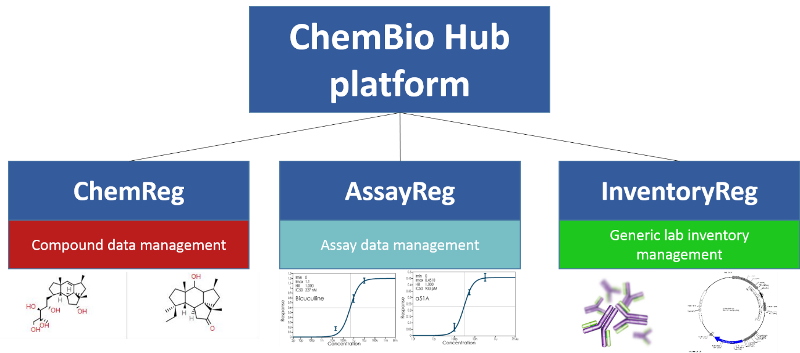
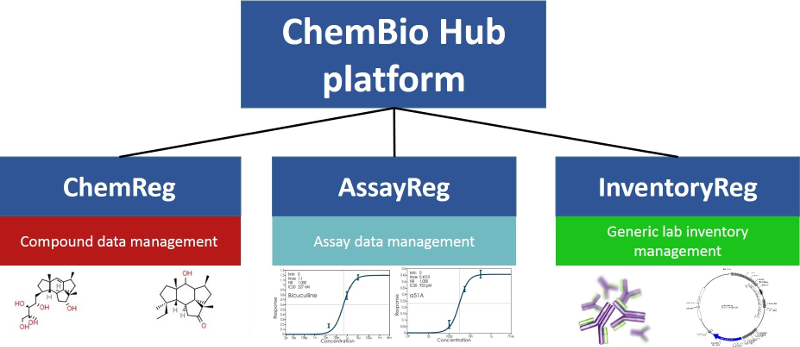
Adam blog revisions

diff --git a/_site/blog/2015/10/15/good-data-management.html b/_site/blog/2015/10/15/good-data-management.html
@@ -145,7 +145,7 @@
 
 <p>A good data management system has several advantages (<em>Figure 1</em>). Most labs don’t realize they are lacking an effective process until it’s too late. Here’s a simple question: If your senior postdoc left today, how much would you lose? You may have their results and protocols, but could you piece it all together? What about the experiments that didn’t work?  And where are the reagents, compounds, plasmids and antibodies they used? <a href="businessdictionary.com" target="_blank">businessdictionary.com</a> defines good data management as the ‘administrative process by which the required data is acquired, validated, stored, protected, and processed, and by which its accessibility, reliability, and timeliness is ensured to satisfy the needs of the data users.’ Academic data management practices rarely fit within this definition. More commonly, academic data management is a combination of hand-written lab books combined with files stored on a server. What’s more the format of data entry varies from  individual to individual. It’s a system that is likely to fail.</p>
 
-<figure>
+<figure class="white-bg">
     <img src="/assets/img/adam-data-management.png" alt="Advantages of using a data management system" class="img-responsive center-block" />
 <figcaption class="text-center">
     <p><em>Figure 1: Advantages of using a data management system</em></p>
@@ -211,7 +211,7 @@
 
 <p>The ChemBio Hub platform is one of the free software options. It provides free, cloud based applications that allow you to standardise and search through your data – whatever it may be (<em>Figure 2</em>). With ChemReg you can upload your compound information and always know where they are stored and under what conditions. InventoryReg organises all the other aspects of your lab, from plasmid and antibody tracking to  your day to day ordering. Finally AssayReg allows you to upload and organise your assay data. The next time you need to repeat an assay, you’ll know exactly where to find the relevant details. In all cases it’s a simple 2-step process to upload data - proving that getting organised can be a painless process. For more information about any of our applications, please visit our website: <a href="https://chembiohub.ox.ac.uk">https://chembiohub.ox.ac.uk</a>.</p>
 
-<figure>
+<figure class="white-bg">
    <img src="/assets/img/adam-cbh-platform.png" alt="The ChemBio Hub Platform" class="img-responsive center-block" />
 <figcaption class="text-center">
     <p><em>Figure 2: The ChemBio Hub Platform</em></p>

diff --git a/_site/blog/index.html b/_site/blog/index.html
@@ -157,7 +157,7 @@
 
 <p>A good data management system has several advantages (<em>Figure 1</em>). Most labs don’t realize they are lacking an effective process until it’s too late. Here’s a simple question: If your senior postdoc left today, how much would you lose? You may have their results and protocols, but could you piece it all together? What about the experiments that didn’t work?  And where are the reagents, compounds, plasmids and antibodies they used? <a href="businessdictionary.com" target="_blank">businessdictionary.com</a> defines good data management as the ‘administrative process by which the required data is acquired, validated, stored, protected, and processed, and by which its accessibility, reliability, and timeliness is ensured to satisfy the needs of the data users.’ Academic data management practices rarely fit within this definition. More commonly, academic data management is a combination of hand-written lab books combined with files stored on a server. What’s more the format of data entry varies from  individual to individual. It’s a system that is likely to fail.</p>
 
-<figure>
+<figure class="white-bg">
     <img src="/assets/img/adam-data-management.png" alt="Advantages of using a data management system" class="img-responsive center-block" />
 <figcaption class="text-center">
     <p><em>Figure 1: Advantages of using a data management system</em></p>
@@ -223,7 +223,7 @@
 
 <p>The ChemBio Hub platform is one of the free software options. It provides free, cloud based applications that allow you to standardise and search through your data – whatever it may be (<em>Figure 2</em>). With ChemReg you can upload your compound information and always know where they are stored and under what conditions. InventoryReg organises all the other aspects of your lab, from plasmid and antibody tracking to  your day to day ordering. Finally AssayReg allows you to upload and organise your assay data. The next time you need to repeat an assay, you’ll know exactly where to find the relevant details. In all cases it’s a simple 2-step process to upload data - proving that getting organised can be a painless process. For more information about any of our applications, please visit our website: <a href="https://chembiohub.ox.ac.uk">https://chembiohub.ox.ac.uk</a>.</p>
 
-<figure>
+<figure class="white-bg">
    <img src="/assets/img/adam-cbh-platform.png" alt="The ChemBio Hub Platform" class="img-responsive center-block" />
 <figcaption class="text-center">
     <p><em>Figure 2: The ChemBio Hub Platform</em></p>

diff --git a/_site/assets/css/main.css b/_site/assets/css/main.css
@@ -620,6 +620,10 @@ p.overlay {
     font-size: 0.8em;
     line-height: 1.4em;
 }
+figure.white-bg {
+  background-color:#fff;
+  padding:10px;
+}
 
 /* Small devices (tablets, 768px and up) */
 @media (min-width: 768px) { 

diff --git a/assets/css/main.css b/assets/css/main.css
@@ -620,6 +620,10 @@ p.overlay {
     font-size: 0.8em;
     line-height: 1.4em;
 }
+figure.white-bg {
+  background-color:#fff;
+  padding:10px;
+}
 
 /* Small devices (tablets, 768px and up) */
 @media (min-width: 768px) { 

diff --git a/_posts/2015-10-15-good-data-management.md b/_posts/2015-10-15-good-data-management.md
@@ -9,7 +9,7 @@ Big business takes data management seriously, funnelling millions of pounds into
 
 A good data management system has several advantages (<em>Figure 1</em>). Most labs don't realize they are lacking an effective process until it's too late. Here's a simple question: If your senior postdoc left today, how much would you lose? You may have their results and protocols, but could you piece it all together? What about the experiments that didn't work?  And where are the reagents, compounds, plasmids and antibodies they used? <a href="businessdictionary.com" target="_blank">businessdictionary.com</a> defines good data management as the 'administrative process by which the required data is acquired, validated, stored, protected, and processed, and by which its accessibility, reliability, and timeliness is ensured to satisfy the needs of the data users.' Academic data management practices rarely fit within this definition. More commonly, academic data management is a combination of hand-written lab books combined with files stored on a server. What's more the format of data entry varies from  individual to individual. It's a system that is likely to fail.
 
-<figure>
+<figure class="white-bg">
     <img src="/assets/img/adam-data-management.png" alt="Advantages of using a data management system" class="img-responsive center-block">
 <figcaption class="text-center">
     <p><em>Figure 1: Advantages of using a data management system</em></p>
@@ -76,7 +76,7 @@ Commercial software allows for searching across many projects whilst enforcing d
 
 The ChemBio Hub platform is one of the free software options. It provides free, cloud based applications that allow you to standardise and search through your data – whatever it may be (<em>Figure 2</em>). With ChemReg you can upload your compound information and always know where they are stored and under what conditions. InventoryReg organises all the other aspects of your lab, from plasmid and antibody tracking to  your day to day ordering. Finally AssayReg allows you to upload and organise your assay data. The next time you need to repeat an assay, you’ll know exactly where to find the relevant details. In all cases it’s a simple 2-step process to upload data - proving that getting organised can be a painless process. For more information about any of our applications, please visit our website: <a href="https://chembiohub.ox.ac.uk">https://chembiohub.ox.ac.uk</a>.
 
-<figure>
+<figure class="white-bg">
    <img src="/assets/img/adam-cbh-platform.png" alt="The ChemBio Hub Platform" class="img-responsive center-block">
 <figcaption class="text-center">
     <p><em>Figure 2: The ChemBio Hub Platform</em></p>
